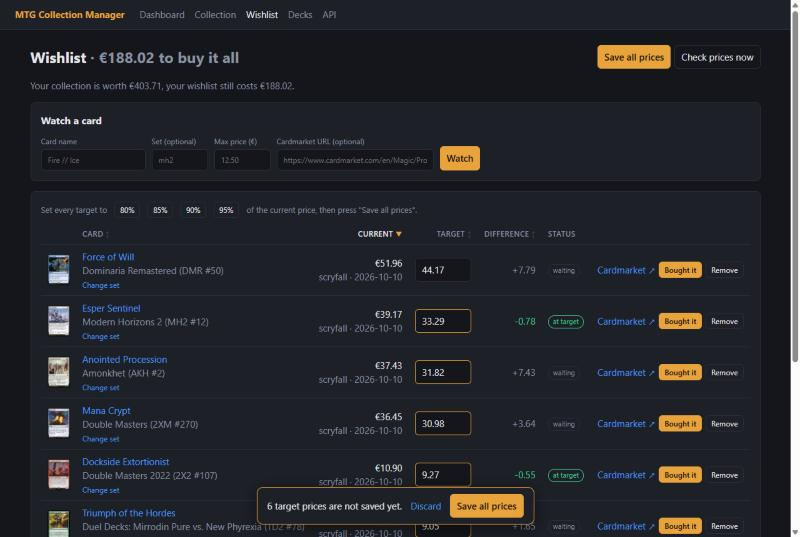
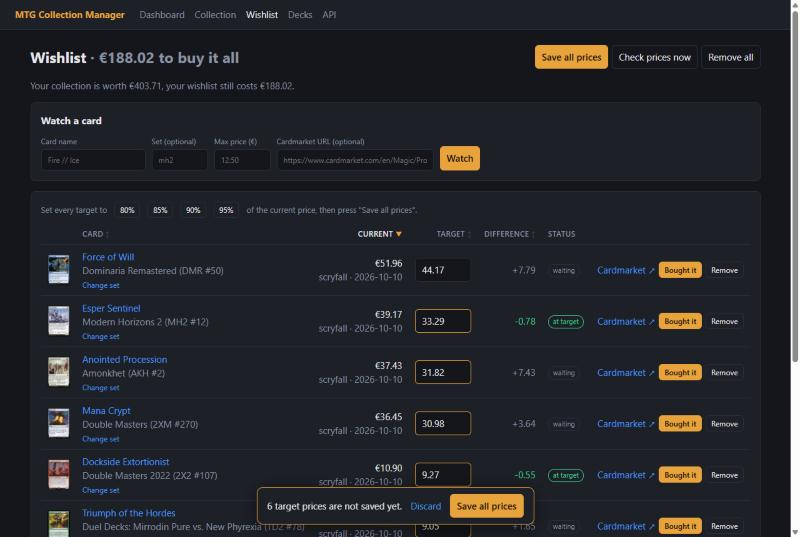
Wishlist: add a "Remove all" button
Empties the wishlist in one go, behind the same two-click confirmation
as the other destructive buttons. Entries are deactivated, so the alert
history stays. DELETE /api/wishlist does the same.

Update the wishlist screenshots in the README.

Changed region(s): [[0.6562, 0.0596, 0.9375, 0.149]]

diff --git a/app/templates/wishlist.html b/app/templates/wishlist.html
@@ -9,6 +9,12 @@
     <form id="wishlist-form" class="inline" method="post" action="/wishlist/targets" data-keep-scroll></form>
     <button form="wishlist-form" class="wishlist-save">Save all prices</button>
     <form class="inline" method="post" action="/jobs/check-wishlist"><button class="secondary">Check prices now</button></form>
+    {% if rows %}
+    <form class="inline" method="post" action="/wishlist/clear"
+          data-confirm="Click again to remove all {{ rows | length }} card{{ 's' if rows | length != 1 }}">
+      <button class="secondary" title="Stop watching every card on your wishlist">Remove all</button>
+    </form>
+    {% endif %}
   </div>
 </div>
 

diff --git a/tests/test_api.py b/tests/test_api.py
@@ -286,3 +286,26 @@ def test_choose_the_set_of_a_wishlist_card(client):
     art = next(p for p in printings if p["collector_number"] == "410")
     api = client.put(f"/api/wishlist/{entry['id']}/printing", json={"scryfall_id": art["scryfall_id"]}).json()
     assert (api["card"]["collector_number"], api["current_price"], api["target_price"]) == ("410", 6.0, 1.2)
+
+
+def test_remove_all_from_the_wishlist(client):
+    assert "Remove all" not in client.get("/wishlist").text  # nothing to remove yet
+    for name in ("Sol Ring", "Fire // Ice", "Lim-Dûl's Vault"):
+        client.post("/api/wishlist", json={"name": name, "target_price": 1})
+    client.post("/api/collection", json={"name": "Sol Ring"})
+
+    page = client.get("/wishlist").text
+    assert 'action="/wishlist/clear"' in page and 'data-confirm="Click again to remove all 3 cards"' in page
+
+    cleared = client.post("/wishlist/clear")
+    assert "Removed all 3 cards from your wishlist" in cleared.text and "Nothing on your wishlist yet." in cleared.text
+    assert client.get("/api/wishlist").json() == {"total_cost": 0.0, "items": []}
+    summary = client.get("/api/summary").json()
+    assert (summary["wishlist_count"], summary["wishlist_cost"], summary["card_count"]) == (0, 0.0, 1)  # collection untouched
+    assert "already empty" in client.post("/wishlist/clear").text
+
+    # A card can simply be watched again afterwards.
+    client.post("/api/wishlist", json={"name": "Sol Ring", "target_price": 2})
+    client.post("/api/wishlist", json={"name": "Fire // Ice", "target_price": 2})
+    assert client.delete("/api/wishlist").json() == {"removed": 2}
+    assert client.delete("/api/wishlist").json() == {"removed": 0}

diff --git a/app/routers/pages.py b/app/routers/pages.py
@@ -200,6 +200,17 @@ def _active_entry(session: Session, entry_id: int) -> WishlistEntry | None:
     return entry if entry is not None and entry.active else None
 
 
+@router.post("/wishlist/clear")
+def wishlist_clear(session: Session = Depends(get_session)):
+    """The "Remove all" button."""
+    removed = wishlist.clear_wishlist(session)
+    stats.record_daily_total(session)
+    session.commit()
+    if not removed:
+        return redirect("/wishlist", "Your wishlist was already empty")
+    return redirect("/wishlist", f"Removed all {removed} card{'s' if removed != 1 else ''} from your wishlist")
+
+
 @router.post("/wishlist/targets")
 async def wishlist_targets(request: Request, session: Session = Depends(get_session)):
     """The "Save all prices" button: every target price on the page in one go."""

diff --git a/app/routers/api.py b/app/routers/api.py
@@ -157,6 +157,15 @@ async def add_to_wishlist(
     return WishlistItemOut.from_row(wishlist.wishlist_rows(session, entry.id)[0])
 
 
+@router.delete("/wishlist")
+def clear_wishlist(session: Session = Depends(get_session)):
+    """Stop watching every card on the wishlist. The alert history is kept."""
+    removed = wishlist.clear_wishlist(session)
+    stats.record_daily_total(session)
+    session.commit()
+    return {"removed": removed}
+
+
 @router.get("/printings", response_model=list[PrintingOut])
 async def list_printings(name: str, scryfall: ScryfallClient = Depends(get_scryfall)):
     """Every paper printing of a card with its price, newest first; for choosing a set."""

diff --git a/app/services/wishlist.py b/app/services/wishlist.py
@@ -131,6 +131,16 @@ async def change_printing(
     return entry
 
 
+def clear_wishlist(session: Session) -> int:
+    """Stop watching every card; returns how many were removed. Alert history is kept."""
+    entries = session.exec(select(WishlistEntry).where(WishlistEntry.active == True)).all()  # noqa: E712
+    for entry in entries:
+        entry.active = False
+        session.add(entry)
+    session.flush()
+    return len(entries)
+
+
 def set_targets(session: Session, targets: dict[int, float]) -> int:
     """Set the target price of several wishlist entries at once; returns how many actually changed.
 

diff --git a/README.md b/README.md
@@ -23,6 +23,8 @@ price.
 
 ![Choosing the set of a wishlist card: every printing of Force of Will with its price](docs/wishlist-set.jpg)
 
+![Remove all asks for a second click before it empties the wishlist](docs/wishlist-remove-all.jpg)
+
 ![Searching the collection: four versions of Sol Ring, told apart by set and card number](docs/collection-search.jpg)
 
 ![Printings without a price of their own borrow one from another printing, marked ≈ SET (Dragon Egg and Fellwar Stone)](docs/collection-borrowed.jpg)
@@ -60,6 +62,7 @@ price.
 - Discord webhook alert when a price is at or below your target, at most once per card per 24 hours
 - Choose the set you want a card from: "Change set" lists every printing with its price; the target price is kept
 - Sort the wishlist by card name, current price, target price or difference, in either direction
+- "Remove all" empties the wishlist in one go, after a second click to confirm
 - Edit target prices freely and store them with one "Save all prices" button; set every target to 80, 85, 90 or 95% of the current price in one click
 - Alert history
 
@@ -146,6 +149,7 @@ product page. Two things to know:
 | `PUT` | `/api/wishlist/{id}/printing` | Watch another printing (set) of the same card |
 | `GET` | `/api/printings?name=` | Every printing of a card with its price |
 | `DELETE` | `/api/wishlist/{id}` | Stop watching a card |
+| `DELETE` | `/api/wishlist` | Stop watching every card |
 | `GET` | `/api/alerts` | Alert history |
 | `GET` | `/api/cards/{id}/prices` | Price history of one card |
 | `GET` | `/api/summary` | Collection value vs. wishlist cost |
